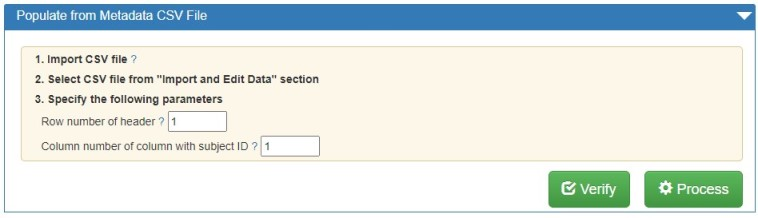
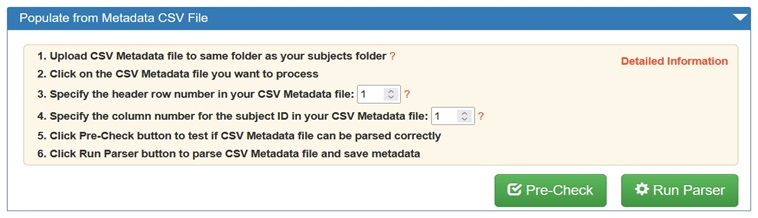
[Datashare Import] Updated instructions for CSV metadata Parsing
-- updated instuctions for importing metadata via csv file
-- made changes to the more detailed instructions to match updated
instuctions.

Changed region(s): [[0.0, 0.0, 1.0, 0.9908], [0.5765, 0.4679, 0.6372, 0.578]]

diff --git a/www/apps/import/import.css b/www/apps/import/import.css
@@ -63,10 +63,27 @@
 	background: rgba(250,240,210,.5);
 	margin: 15px 15px 0px 0px;
 	border-radius: 5px;
+	position: relative;
 }
 
 .containerMetadataCsvFile>.row {
 	margin: 5px;
+}
+
+.metadataInfoLink {
+	padding: 12px;
+	position: absolute;
+	right: 0%;
+}
+
+.metadataInfoLink a {
+	font-weight: bolder;
+	font-size: 1.4rem;
+	color: #f75236;
+}
+
+.metadataInfoLink a:hover {
+	color: #d82709;
 }
 
 .hdrImport {
@@ -104,3 +121,14 @@
 	margin-right: 15px; 
 }
 
+.popoverLic {
+	color:#f75236
+}
+
+.popoverLic:hover {
+	color: #d82709;
+}
+
+.import-meta-field {
+	width: 55px;
+}

diff --git a/www/apps/import/index.php b/www/apps/import/index.php
@@ -361,12 +361,12 @@ include_once("../../baseIncludes.php");
 	<b>File Upload</b><br/>
 <ul>
 <li>Upload files by dragging and dropping them in the "Import and Edit Data" window below.  <b>Note: Filenames that start with a "." cannot be uploaded.</b></li>
-<li><b>Compressed files (.zip, .tar.gz, .tar):</b> SimTK will automatically expand compressed files. <b>For the automatic expansion to work propoerly, none of the file and directory names can start with a "."</b></li>
+<li><b>Compressed files (.zip, .tar.gz, .tar):</b> SimTK will automatically expand compressed files. <b>For the automatic expansion to work properly, none of the file and directory names can start with a "."</b></li>
 </ul>
 	<b>Provide Metadata & Enable Query Feature</b><br/>
 	To enable querying of your dataset, you need to <a style="color:#f75236;" href="metadata.php" target="_blank">provide metadata</a>. Options to add metadata:
 	<ul>
-	<li>SimTK can semi-automatically generate metadata files from a CSV file (See "Populate from Metatadata CSV File" section below).</li>
+	<li>SimTK can semi-automatically generate metadata files from a CSV file (See "Populate from Metadata CSV File" section below).</li>
 	<li>You can also explicitly provide metadata via files in each data folder or implicitly via your directory structure. <a style="color:#f75236;" href="metadata.php#provide" target="_blank">More details</a></li>
 	</ul>
 	<div id="importStatus"></div>
@@ -410,27 +410,37 @@ include_once("../../baseIncludes.php");
 		<div class="collapse" id="importMetadataCsvFile">
 			<div class="card-body" id="cardMetadataCsvFile">
 				<div class="containerMetadataCsvFile">
-					<div class="row">
-						<span class="hdrImport"><b>1. Import CSV file</b></span>
-						<span class="myPopOver"><a href="javascript://" class="popoverLic" data-html="true" data-toggle="popover" data-placement="right" data-content="File must contain a header row. Import file to the same directory level as folders to which metadata files will be added.">?</a></span>
+				<div class="metadataInfoLink">
+						<a href="https://simtkdata10-as.stanford.edu/apps/import/metadata_ImportCSVFile.php" target="_blank"> Detailed Instructions</a>
 					</div>
-					<div class="row">
-						<span class="hdrImport"><b>2. Select CSV file from "Import and Edit Data" section</b></span>
+						<div class="row">
+							<span class="hdrImport"><b>1. Upload CSV Metadata file to same folder as your subjects folder</b></span>
+							<span class="myPopOver"><a href="javascript://" class="popoverLic" data-html="true" data-toggle="popover" data-placement="right" data-content="File must contain a header row. Import file to the same directory level as folders to which metadata files will be added.">?</a></span>
+						</div>
+						<div class="row">
+							<span class="hdrImport"><b>2. Click on the CSV Metadata file you want to process</b></span>
+						</div>
+						<div class="row">
+							<span class="hdrImport"><b>3. Specify the header row number in your CSV Metadata file:
+							</b></span>
+							
+							<input type="number" id="headerRow" class="import-meta-field" name="headerRow" min="1" max="999" value="1">
+							<span class="myPopOver"><a href="javascript://" class="popoverLic" data-html="true" data-toggle="popover" data-placement="right" data-content="Row where header information is located. Content in the row header should only contain alphanumeric characters in addition to the following characters: ( ) [ ] / ^ _ space">?</a></span>
+						</div>
+						<div class="row">
+							<span class="hdrImport"><b>4. Specify the column number for the subject ID in your CSV Metadata file:</b> </span>
+							
+							<input type="number" id="subjectColumn" class="import-meta-field" name="subjectColumn" min="1" max="999" value="1">
+							<span class="myPopOver"><a href="javascript://" class="popoverLic" data-html="true" data-toggle="popover" data-placement="right" data-content="Column mapping: 1 = Column A (e.g., in Excel, Google Spreadsheet), 2 = Column B, 3 = Column C, etc.">?</a></span>
+						</div>
+						<div class="row">
+							<span class="hdrImport"><b>5. Click Pre-Check button to test if CSV Metadata file can be parsed correctly</b></span>
+						</div>
+						<div class="row">
+							<span class="hdrImport"><b>6. Click Run Parser button to parse CSV Metadata file and save metadata</b></span>
+						</div>
 					</div>
-					<div class="row">
-						<span class="hdrImport""><b>3. Specify the following parameters</b></span>
-					</div>
-					<div class="row">
-						<span class="msgImport"">Row number of header </span>
-						<span class="myPopOver"><a href="javascript://" class="popoverLic" data-html="true" data-toggle="popover" data-placement="right" data-content="Row where header information is located. Content in the row header should only contain alphanumeric characters in addition to the following characters: ( ) [ ] / ^ _ space">?</a></span>
-						<input type="number" id="headerRow" name="headerRow" min="1" max="999" value="1">
-					</div>
-					<div class="row">
-						<span class="msgImport">Column number of column with subject ID </span>
-						<span class="myPopOver"><a href="javascript://" class="popoverLic" data-html="true" data-toggle="popover" data-placement="right" data-content="Column mapping: 1 = Column A (e.g., in Excel, Google Spreadsheet), 2 = Column B, 3 = Column C, etc.">?</a></span>
-						<input type="number" id="subjectColumn" name="subjectColumn" min="1" max="999" value="1">
-					</div>
-				</div>
+					
 			</div>
 
 			<div class="card-footer">
@@ -440,14 +450,14 @@ include_once("../../baseIncludes.php");
 						value="Verify"
 						onclick="event.preventDefault(); handleSubmit(this)">
 						<span class="glyphicon glyphicon-check"></span>
-						Verify
+						Pre-Check
 					</button>
 					<button id="btnProcess" class="btn btn-success"
 						name="import_meta" 
 						value="Process"
 						onclick="event.preventDefault(); handleSubmit(this)">
 						<span class="glyphicon glyphicon-cog"></span>
-						Process
+						Run Parser
 					</button>
 				</div>
 			</div>

diff --git a/www/apps/import/metadata_ImportCSVFile.php b/www/apps/import/metadata_ImportCSVFile.php
@@ -70,7 +70,7 @@ a {
 
 <ol>
 <li>If needed, save your spreadsheet as a CSV (comma-separated) or CSV UTF-8 file. The file name must have the suffix .csv.</li> 
-<li>Upload the CSV file to the same directory as the folders named in the spreadsheet. In the example below, the spreadsheet name is TestMetaData.csv and it has been uploaded to be in the same directory as the data folders subject07 and subject11. These are the folder names which appear in column A of the spreadsheet.</li>
+<li>Upload the CSV file to the same folder as the subject folders named in the spreadsheet. In the example below, the spreadsheet name is TestMetaData.csv and it has been uploaded to be in the same folder as the data folders subject07 and subject11. These are the folder names which appear in column A of the spreadsheet.</li>
 
 <br/>
 
@@ -87,8 +87,8 @@ a {
 <br/><br/>
 
 <li>Specify the row number of the header and the column number for the folder ID. In the example, the row number is 1. The column with the folder ID is A, or the first column, so we enter the number 1.</li>
-<b><li>It can be hard to clean up the automatically generated metadata files, so FIRST click “Verify” to confirm that there are no errors with the spreadsheet.</li></b>
-<li>If there are no errors, click “Process” to generate the metadata files.</li>
+<b><li>It can be hard to clean up the automatically generated metadata files, so FIRST click “Pre-Check” to confirm that there are no errors with the spreadsheet.</li></b>
+<li>If there are no errors, click “Run Parser” to generate the metadata files.</li>
 </ol>
 
 </div>
